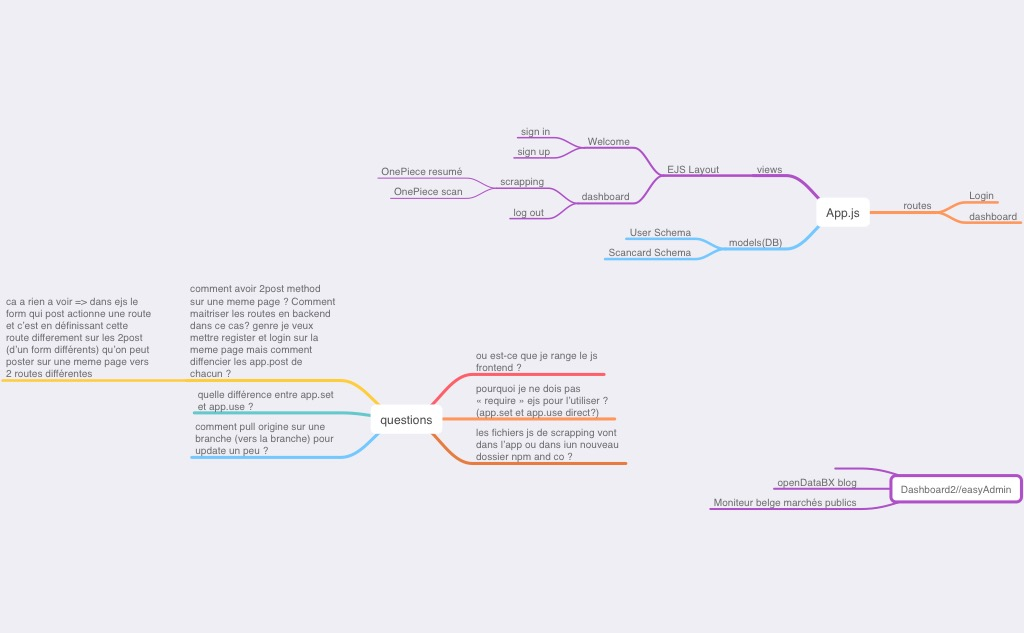
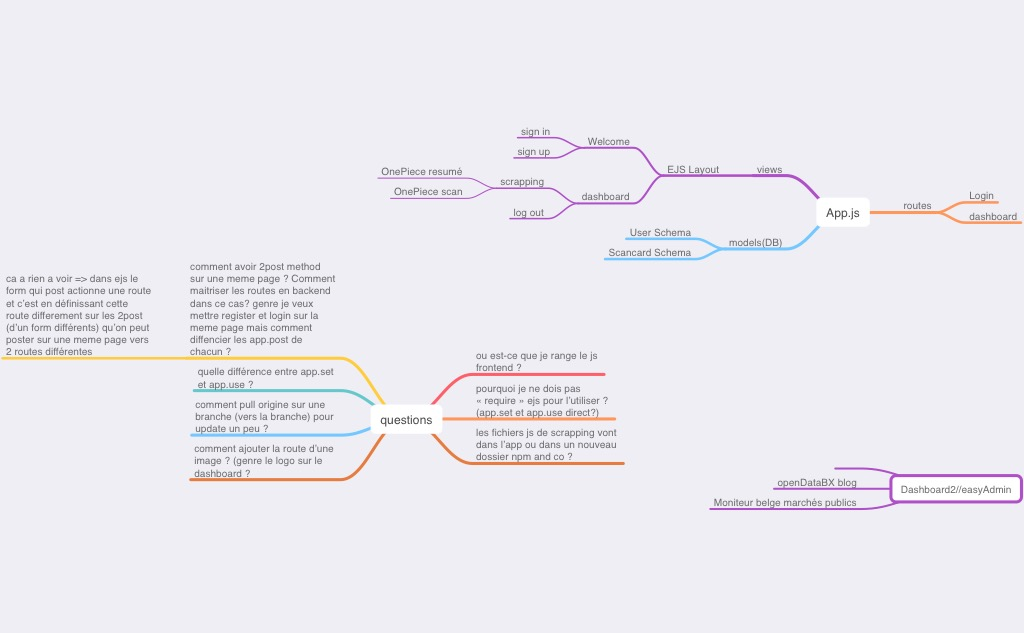
pcq c'est pas remote

Changed region(s): [[0.0, 0.4202, 0.375, 0.7804], [0.5625, 0.6904, 0.5938, 0.7204]]

diff --git a/My hill/FullStack/bookface3/routes/users.js b/My hill/FullStack/bookface3/routes/users.js
@@ -6,7 +6,7 @@ const passport = require('passport');
 
 //login handle
 router.get('/',(req,res)=>{
-    res.render('Welcome')
+    res.render('index')
 })
 //Register handle
 router.post('/sign-in',(req,res, next)=>{
@@ -34,7 +34,7 @@ router.post('/sign-up',(req,res) => {
         errors.push({msg : 'password atleast 6 characters'})
     }
     if(errors.length > 0 ) {
-    res.render('welcome', {
+    res.render('index', {
         errors : errors,
         name : name,
         email : email,

diff --git a/My hill/FullStack/bookface3/app.js b/My hill/FullStack/bookface3/app.js
@@ -23,7 +23,8 @@ mongoose.connect(process.env.DB_CONNECT,{useNewUrlParser: true, useUnifiedTopolo
 .catch((err)=> console.log(err));
 
 //so we can access the css
-app.use("/static", express.static("public"));
+//app.use("/static", express.static("public"));
+app.use('/static', express.static(__dirname + '/public'));
 
 //EJS
 app.set('view engine','ejs');

diff --git a/My hill/FullStack/bookface3/public/stylesheets/dashboard.css b/My hill/FullStack/bookface3/public/stylesheets/dashboard.css
@@ -5,6 +5,16 @@
   margin: 0px;
 }
 
+.logo{
+  width: 75px;
+  height:auto;
+  position:relative;
+  padding-top:20px;
+  padding-bottom:20px;
+  padding-left:0px;
+  padding-right:0px;
+}
+
 .viewport{
   position:relative;
   background: linear-gradient(90deg, #20e6b3, #8e11f3, #4c20d4);

diff --git a/My hill/FullStack/bookface3/routes/index.js b/My hill/FullStack/bookface3/routes/index.js
@@ -8,7 +8,7 @@ router.get('/dashboard',(req,res)=>{
 })
 //login and register page
 router.get('/', (req,res)=>{
-    res.render('welcome');
+    res.render('index',{errors  : req.flash('error')});
 })
 
 module.exports = router;
